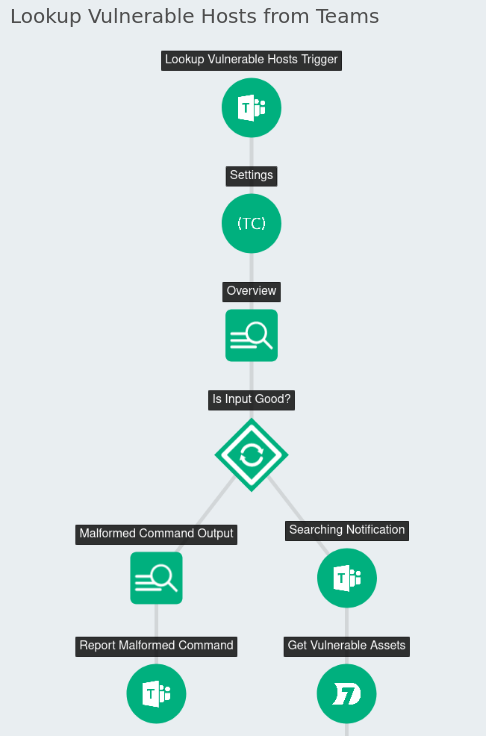
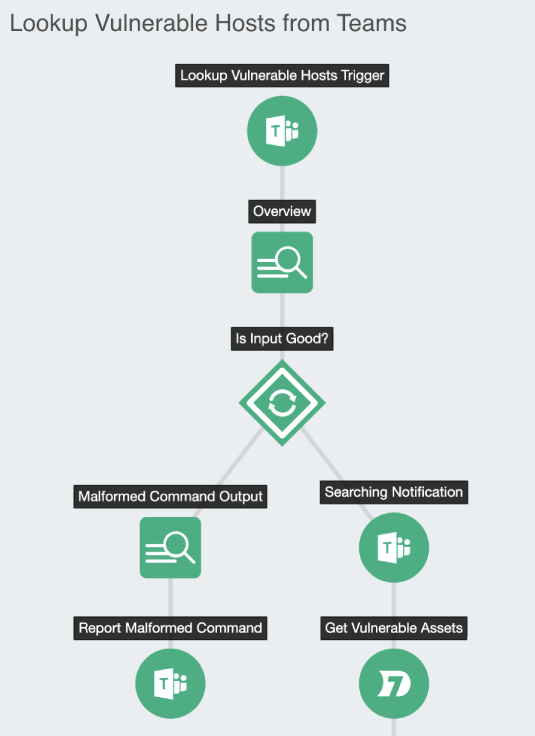
[SOAR-4451]: use workflow parameters where we can

Changed region(s): [[0.0, 0.0, 0.8951, 1.0]]

diff --git a/workflows/Lookup_Vulnerable_Hosts_From_Teams/help.md b/workflows/Lookup_Vulnerable_Hosts_From_Teams/help.md
@@ -24,10 +24,15 @@ Sample Microsoft Teams command:
 
 Import the workflow from the Rapid7 Extension Library and proceed through the Import Workflow wizard in InsightConnect. Import plugins, create or select connections, and rename the workflow as a part of the Import Workflow wizard as necessary.
 
-Once the workflow has been imported, **the first Microsoft Teams step will need the team name and channel name updated to suit your Teams environment!** Edit the input with the preset text of `change_me` in first Microsoft Teams step in the workflow. There is also an optional Settings step which can be edited to change the maximum number of vulnerabilities and maximum hosts listed per vulnerability which are returned. The defaults are 50 vulnerabilities and 10 assets per vulnerability.
+This workflow leverages insightConnect's Parameters feature. This feature allows variables used multiple times throughout a workflow to be entered once and then referenced throughout the workflow. To begin, select "Parameters" either from the Workflow home page or from the Builder to begin configuration.
 
-After configuring the Microsoft Teams and Setting steps, activate the workflow in order to trigger it.
+There are three parameters you will need to configure in order to complete setup of your workflow:
+* `Team Name`:  the Microsoft Teams team name in your environment where the workflow should be triggered and respond
+* `Channel Name`:  the Microsoft Teams channel name in your environment where the workflow should be triggered and respond (the channel should exist in the aforementioned team)
+* `Max Hosts`: the maximum number of hosts listed per vulnerability (recommended default is 10)
+* `Max Vulnerabilities`: the maximum number of returned vulnerabilities (recommended default is 50)
 
+To configure the parameters, select "Parameters" either from the Workflow Control Panel page or from the Workflow Builder. Once configured, workflow setup is complete.
 ### Usage
 
 *This workflow will only trigger in the channel specified in the Microsoft Teams workflow steps.*
@@ -66,6 +71,7 @@ _There is no troubleshooting information at this time_
 
 # Version History
 
+* 2.0.0 - Use Workflow Parameters to configure Microsoft Teams team & channel names, max vulnerabilities, and max hosts values (and remove the Settings step) | Update CSV to version 1.1.6 | Update Type Converter to 1.7.0 | Update Type Converter to 1.7.0
 * 1.1.0 - Use the automatic extraction functionality instead of Pattern Match step to extract a vulnerability | Remove HTML step | Add max vulnerabilities parameter in Setting step | Remove team name and channel name parameters from Setting step | Improve workflow messaging | Improve documentation | Update screenshots | Update Rapid7 InsightVM to version 4.8.1 | Update Microsoft Teams to version 3.1.0 | Update Type Converter to version 1.6.0
 * 1.0.1 - Update to make Microsoft Teams plugin the latest version
 * 1.0.0 - Initial workflow
